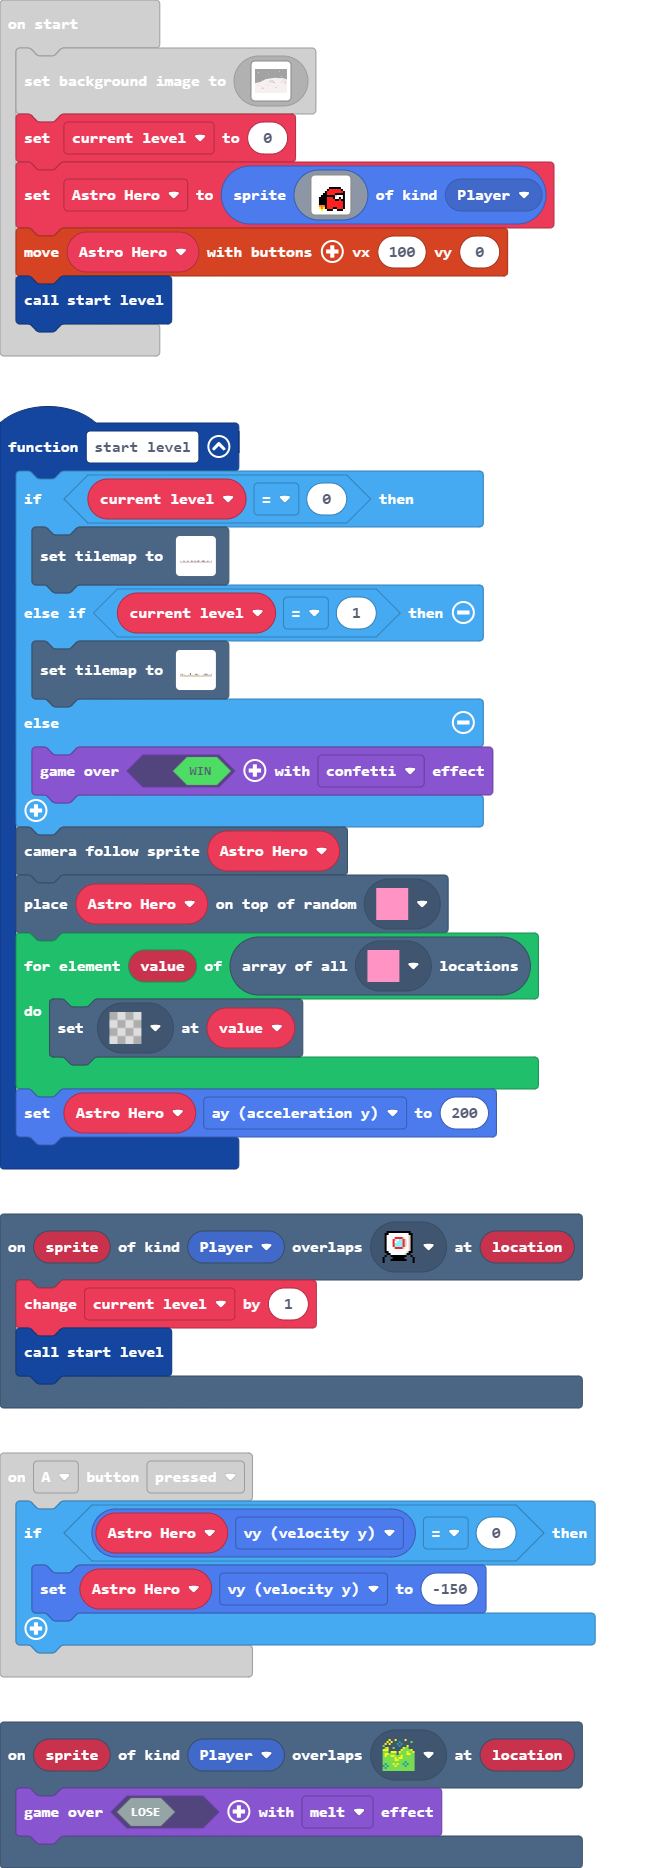
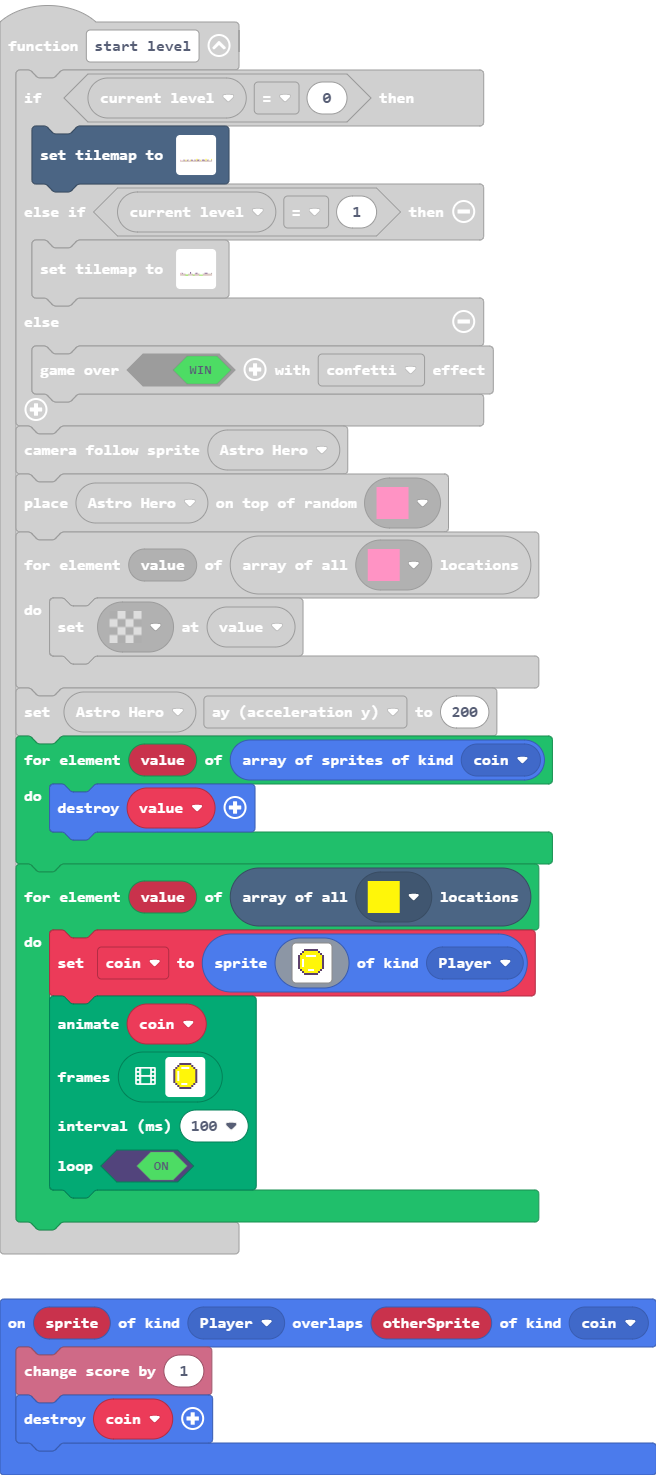
Update pxt.json, main.blocks, main.ts, tilemap.g.jres, tilemap.g.ts

diff --git a/main.ts b/main.ts
@@ -1,6 +1,9 @@
+namespace SpriteKind {
+    export const coin = SpriteKind.create()
+}
 function start_level () {
     if (current_level == 0) {
-        tiles.setTilemap(tiles.createTilemap(hex`230010000000000000000000000000000000000000000000000000000000000000000000000000000000000000000000000000000000000000000000000000000000000000000000000000000000000000000000000000000000000000000000000000000000000000000000000000000000000000000000000000000000000000000000000000000000000000000000000000000000000000000000000000000000000000000000000000000000000000000000000000000000000000000000000000000000000000000000000000000000000000000000000000000000000000000000000000000000000000000000000000000000000000000000000000000000000000000000000000000000000000000000000000000000000000000000000000000000000000000000000000000000000000000000000000000000000000000000000000000000000000000000000000000000000000000000000000000000000000000000000000000000000000000000000000000000000000000000000000000000000000000000000000000000000000000000000000000000000000000000000000000000000000000000000000000000000000000000000000000000000000000000000000000000000000000000000000000000000000000000000000000000000000000000000005000000030000000100000001010000060000010600000001060100000007000000040202020202020202020202020202020202020202020202020202020202020202020202`, img`
+        tiles.setTilemap(tiles.createTilemap(hex`230010000000000000000000000000000000000000000000000000000000000000000000000000000000000000000000000000000000000000000000000000000000000000000000000000000000000000000000000000000000000000000000000000000000000000000000000000000000000000000000000000000000000000000000000000000000000000000000000000000000000000000000000000000000000000000000000000000000000000000000000000000000000000000000000000000000000000000000000000000000000000000000000000000000000000000000000000000000000000000000000000000000000000000000000000000000000000000000000000000000000000000000000000000000000000000000000000000000000000000000000000000000000000000000000000000000000000000000000000000000000000000000000000000000000000000000000000000000000000000000000000000000000000000000000000000000000000000000000000000000000000000000000000000000000000000000000000000000000000000000000000000000000000000000000000000000000000000000000000000000000000000000000000000000000000000000000000000000000000080000000000000000000800000000000805000000030008000100000801010000060008010600080001060100080007000000040202020202020202020202020202020202020202020202020202020202020202020202`, img`
             ...................................
             ...................................
             ...................................
@@ -17,7 +20,7 @@ function start_level () {
             ...................................
             ....2...2...22..2..22...222...2....
             22222222222222222222222222222222222
-            `, [myTiles.transparency16,myTiles.tile2,myTiles.tile7,myTiles.tile3,myTiles.tile8,myTiles.tile9,myTiles.tile4,myTiles.tile6], TileScale.Sixteen))
+            `, [myTiles.transparency16,myTiles.tile2,myTiles.tile7,myTiles.tile3,myTiles.tile8,myTiles.tile9,myTiles.tile4,myTiles.tile6,myTiles.tile16], TileScale.Sixteen))
     } else if (current_level == 1) {
[1 lines of base64/hex data omitted]
             ...................................
@@ -46,6 +49,188 @@ function start_level () {
         tiles.setTileAt(value, myTiles.transparency16)
     }
     Astro_Hero.ay = 200
+    for (let value of sprites.allOfKind(SpriteKind.coin)) {
+        value.destroy()
+    }
+    for (let value of tiles.getTilesByType(myTiles.tile16)) {
+        coin = sprites.create(img`
+            . . . . . . . . . . . . . . . . 
+            . . . . c c c c c c c . . . . . 
+            . . . c 5 5 5 5 5 5 5 c . . . . 
+            . . c 5 5 5 5 5 5 5 5 5 c . . . 
+            . c 5 5 5 1 1 1 1 1 5 5 5 c . . 
+            . c 5 5 5 5 5 5 5 5 5 5 5 c . . 
+            . c 5 1 5 5 5 5 5 5 5 5 5 c . . 
+            . c 5 1 5 5 5 5 5 5 5 5 5 c . . 
+            . c 5 1 5 5 5 5 5 5 5 5 5 c . . 
+            . c 5 1 5 5 5 5 5 5 5 5 5 c . . 
+            . c 5 5 5 5 5 5 5 5 5 5 5 c . . 
+            . . c 5 5 5 1 1 1 5 5 5 c . . . 
+            . . . c 5 5 5 5 5 5 5 c . . . . 
+            . . . . c c c c c c c . . . . . 
+            . . . . . . . . . . . . . . . . 
+            . . . . . . . . . . . . . . . . 
+            `, SpriteKind.Player)
+        animation.runImageAnimation(
+        coin,
+        [img`
+            . . . . . . . . . . . . . . . . 
+            . . . . . c c c c c c . . . . . 
+            . . . . c 5 5 5 5 5 5 c . . . . 
+            . . . c 5 5 1 1 1 1 5 5 c . . . 
+            . . c 5 5 5 5 5 5 5 5 5 5 c . . 
+            . . c 5 1 5 5 5 5 5 5 5 5 c . . 
+            . . c 5 1 5 5 5 5 5 5 5 5 c . . 
+            . . c 5 1 5 5 5 5 5 5 5 5 c . . 
+            . . c 5 1 5 5 5 5 5 5 5 5 c . . 
+            . . c 5 1 5 5 5 5 5 5 5 5 c . . 
+            . . c 5 5 5 5 5 5 5 5 5 5 c . . 
+            . . . c 5 5 1 1 1 5 5 5 c . . . 
+            . . . . c 5 5 5 5 5 5 c . . . . 
+            . . . . . c c c c c c . . . . . 
+            . . . . . . . . . . . . . . . . 
+            . . . . . . . . . . . . . . . . 
+            `,img`
+            . . . . . . . . . . . . . . . . 
+            . . . . . . c c c c . . . . . . 
+            . . . . . c 5 5 5 5 c . . . . . 
+            . . . . c 5 5 1 1 5 5 c . . . . 
+            . . . c 5 5 5 5 5 5 5 5 c . . . 
+            . . . c 5 1 5 5 5 5 5 5 c . . . 
+            . . . c 5 1 5 5 5 5 5 5 c . . . 
+            . . . c 5 1 5 5 5 5 5 5 c . . . 
+            . . . c 5 1 5 5 5 5 5 5 c . . . 
+            . . . c 5 1 5 5 5 5 5 5 c . . . 
+            . . . c 5 5 5 5 5 5 5 5 c . . . 
+            . . . . c 5 5 1 1 5 5 c . . . . 
+            . . . . . c 5 5 5 5 c . . . . . 
+            . . . . . . c c c c . . . . . . 
+            . . . . . . . . . . . . . . . . 
+            . . . . . . . . . . . . . . . . 
+            `,img`
+            . . . . . . . . . . . . . . . . 
+            . . . . . . . c c . . . . . . . 
+            . . . . . . c 5 5 c . . . . . . 
+            . . . . . c 5 5 5 5 c . . . . . 
+            . . . . c 5 5 5 5 5 5 c . . . . 
+            . . . . c 5 1 5 5 5 5 c . . . . 
+            . . . . c 5 1 5 5 5 5 c . . . . 
+            . . . . c 5 1 5 5 5 5 c . . . . 
+            . . . . c 5 1 5 5 5 5 c . . . . 
+            . . . . c 5 1 5 5 5 5 c . . . . 
+            . . . . c 5 5 5 5 5 5 c . . . . 
+            . . . . . c 5 5 5 5 c . . . . . 
+            . . . . . . c 5 5 c . . . . . . 
+            . . . . . . . c c . . . . . . . 
+            . . . . . . . . . . . . . . . . 
+            . . . . . . . . . . . . . . . . 
+            `,img`
+            . . . . . . . . . . . . . . . . 
+            . . . . . . . c c . . . . . . . 
+            . . . . . . . c c . . . . . . . 
+            . . . . . . c 5 5 c . . . . . . 
+            . . . . . c 5 5 5 5 c . . . . . 
+            . . . . . c 5 1 5 5 c . . . . . 
+            . . . . . c 5 1 5 5 c . . . . . 
+            . . . . . c 5 1 5 5 c . . . . . 
+            . . . . . c 5 1 5 5 c . . . . . 
+            . . . . . c 5 1 5 5 c . . . . . 
+            . . . . . c 5 5 5 5 c . . . . . 
+            . . . . . . c 5 5 c . . . . . . 
+            . . . . . . . c c . . . . . . . 
+            . . . . . . . c c . . . . . . . 
+            . . . . . . . . . . . . . . . . 
+            . . . . . . . . . . . . . . . . 
+            `,img`
+            . . . . . . . . . . . . . . . . 
+            . . . . . . . c c . . . . . . . 
+            . . . . . . . c c . . . . . . . 
+            . . . . . . . c c . . . . . . . 
+            . . . . . . c 5 5 c . . . . . . 
+            . . . . . . c 5 5 c . . . . . . 
+            . . . . . . c 5 5 c . . . . . . 
+            . . . . . . c 5 5 c . . . . . . 
+            . . . . . . c 5 5 c . . . . . . 
+            . . . . . . c 5 5 c . . . . . . 
+            . . . . . . c 5 5 c . . . . . . 
+            . . . . . . . c c . . . . . . . 
+            . . . . . . . c c . . . . . . . 
+            . . . . . . . c c . . . . . . . 
+            . . . . . . . . . . . . . . . . 
+            . . . . . . . . . . . . . . . . 
+            `,img`
+            . . . . . . . . . . . . . . . . 
+            . . . . . . . c c . . . . . . . 
+            . . . . . . . c c . . . . . . . 
+            . . . . . . c 5 5 c . . . . . . 
+            . . . . . c 5 5 5 5 c . . . . . 
+            . . . . . c 5 1 5 5 c . . . . . 
+            . . . . . c 5 1 5 5 c . . . . . 
+            . . . . . c 5 1 5 5 c . . . . . 
+            . . . . . c 5 1 5 5 c . . . . . 
+            . . . . . c 5 1 5 5 c . . . . . 
+            . . . . . c 5 5 5 5 c . . . . . 
+            . . . . . . c 5 5 c . . . . . . 
+            . . . . . . . c c . . . . . . . 
+            . . . . . . . c c . . . . . . . 
+            . . . . . . . . . . . . . . . . 
+            . . . . . . . . . . . . . . . . 
+            `,img`
+            . . . . . . . . . . . . . . . . 
+            . . . . . . . c c . . . . . . . 
+            . . . . . . c 5 5 c . . . . . . 
+            . . . . . c 5 5 5 5 c . . . . . 
+            . . . . c 5 5 5 5 5 5 c . . . . 
+            . . . . c 5 1 5 5 5 5 c . . . . 
+            . . . . c 5 1 5 5 5 5 c . . . . 
+            . . . . c 5 1 5 5 5 5 c . . . . 
+            . . . . c 5 1 5 5 5 5 c . . . . 
+            . . . . c 5 1 5 5 5 5 c . . . . 
+            . . . . c 5 5 5 5 5 5 c . . . . 
+            . . . . . c 5 5 5 5 c . . . . . 
+            . . . . . . c 5 5 c . . . . . . 
+            . . . . . . . c c . . . . . . . 
+            . . . . . . . . . . . . . . . . 
+            . . . . . . . . . . . . . . . . 
+            `,img`
+            . . . . . . . . . . . . . . . . 
+            . . . . . . c c c c . . . . . . 
+            . . . . . c 5 5 5 5 c . . . . . 
+            . . . . c 5 5 1 1 5 5 c . . . . 
+            . . . c 5 5 5 5 5 5 5 5 c . . . 
+            . . . c 5 1 5 5 5 5 5 5 c . . . 
+            . . . c 5 1 5 5 5 5 5 5 c . . . 
+            . . . c 5 1 5 5 5 5 5 5 c . . . 
+            . . . c 5 1 5 5 5 5 5 5 c . . . 
+            . . . c 5 1 5 5 5 5 5 5 c . . . 
+            . . . c 5 5 5 5 5 5 5 5 c . . . 
+            . . . . c 5 5 1 1 5 5 c . . . . 
+            . . . . . c 5 5 5 5 c . . . . . 
+            . . . . . . c c c c . . . . . . 
+            . . . . . . . . . . . . . . . . 
+            . . . . . . . . . . . . . . . . 
+            `,img`
+            . . . . . . . . . . . . . . . . 
+            . . . . . c c c c c c . . . . . 
+            . . . . c 5 5 5 5 5 5 c . . . . 
+            . . . c 5 5 1 1 1 1 5 5 c . . . 
+            . . c 5 5 5 5 5 5 5 5 5 5 c . . 
+            . . c 5 1 5 5 5 5 5 5 5 5 c . . 
+            . . c 5 1 5 5 5 5 5 5 5 5 c . . 
+            . . c 5 1 5 5 5 5 5 5 5 5 c . . 
+            . . c 5 1 5 5 5 5 5 5 5 5 c . . 
+            . . c 5 1 5 5 5 5 5 5 5 5 c . . 
+            . . c 5 5 5 5 5 5 5 5 5 5 c . . 
+            . . . c 5 5 1 1 1 5 5 5 c . . . 
+            . . . . c 5 5 5 5 5 5 c . . . . 
+            . . . . . c c c c c c . . . . . 
+            . . . . . . . . . . . . . . . . 
+            . . . . . . . . . . . . . . . . 
+            `],
+        100,
+        true
+        )
+    }
 }
 controller.A.onEvent(ControllerButtonEvent.Pressed, function () {
     if (Astro_Hero.vy == 0) {
@@ -59,6 +244,11 @@ scene.onOverlapTile(SpriteKind.Player, myTiles.tile8, function (sprite, location
     current_level += 1
     start_level()
 })
+sprites.onOverlap(SpriteKind.Player, SpriteKind.coin, function (sprite, otherSprite) {
+    info.changeScoreBy(1)
+    coin.destroy()
+})
+let coin: Sprite = null
 let Astro_Hero: Sprite = null
 let current_level = 0
 scene.setBackgroundImage(img`

diff --git a/tilemap.g.ts b/tilemap.g.ts
@@ -32,6 +32,8 @@ namespace myTiles {
     export const tile14 = image.ofBuffer(hex``);
     //% fixedInstance jres blockIdentity=images._tile
     export const tile15 = image.ofBuffer(hex``);
+    //% fixedInstance jres blockIdentity=images._tile
+    export const tile16 = image.ofBuffer(hex``);
 
 }
 // Auto-generated code. Do not edit.
